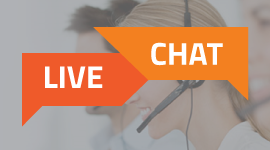
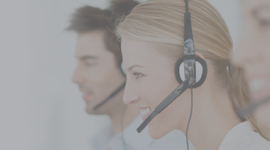
updated live chat cta image and servcies css

diff --git a/wp-content/themes/scalia-default-child/style.css b/wp-content/themes/scalia-default-child/style.css
@@ -363,6 +363,17 @@ License URI: license.txt
 	background-size: cover;
 	height: 150px;
 }
+.live-chat.cta p {
+	text-transform: uppercase;
+	font-style: italic;
+	position: absolute;
+	top: 0;
+	left: 0;
+}
+.live-chat.cta p:nth-child(3) {
+	bottom: 0;
+	right: 0;
+}
 .vc_cta3-container  {
 	transition: all ease .2s;
 }
